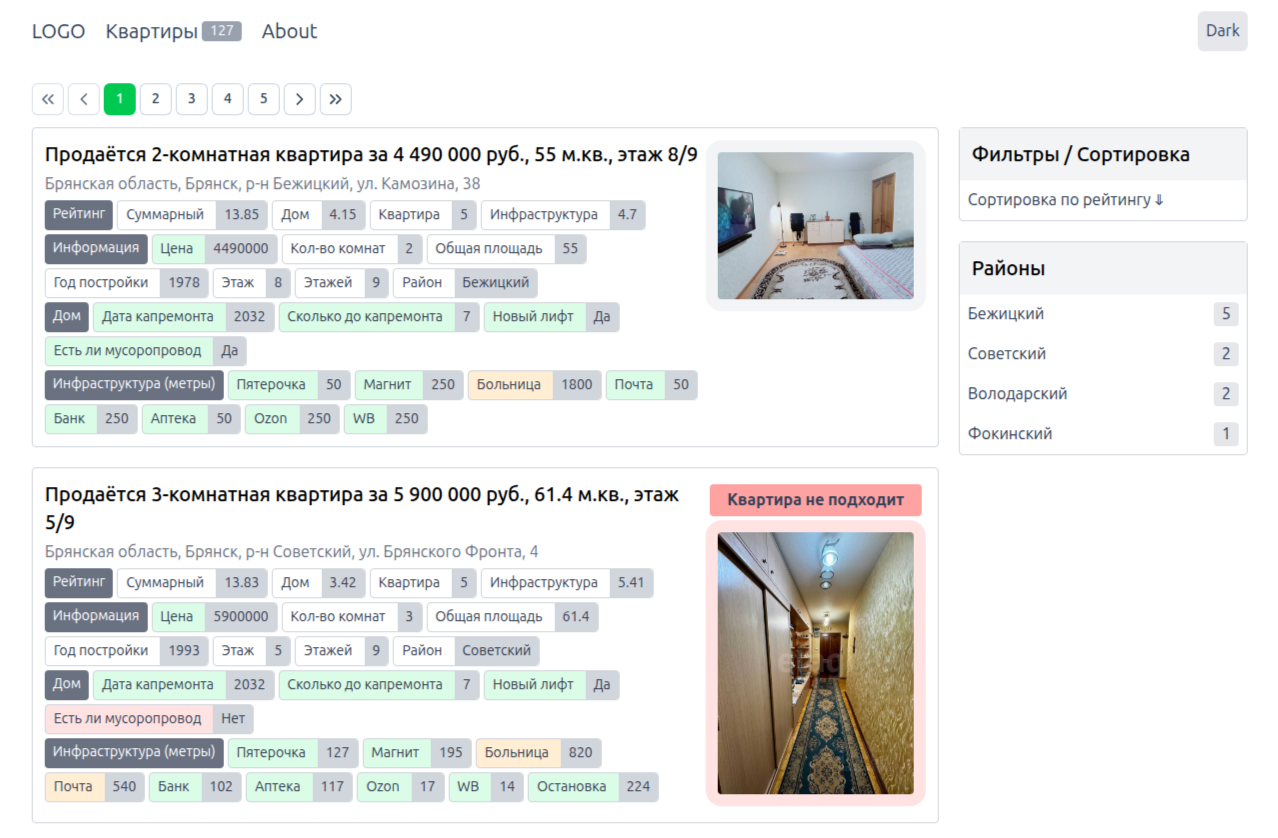
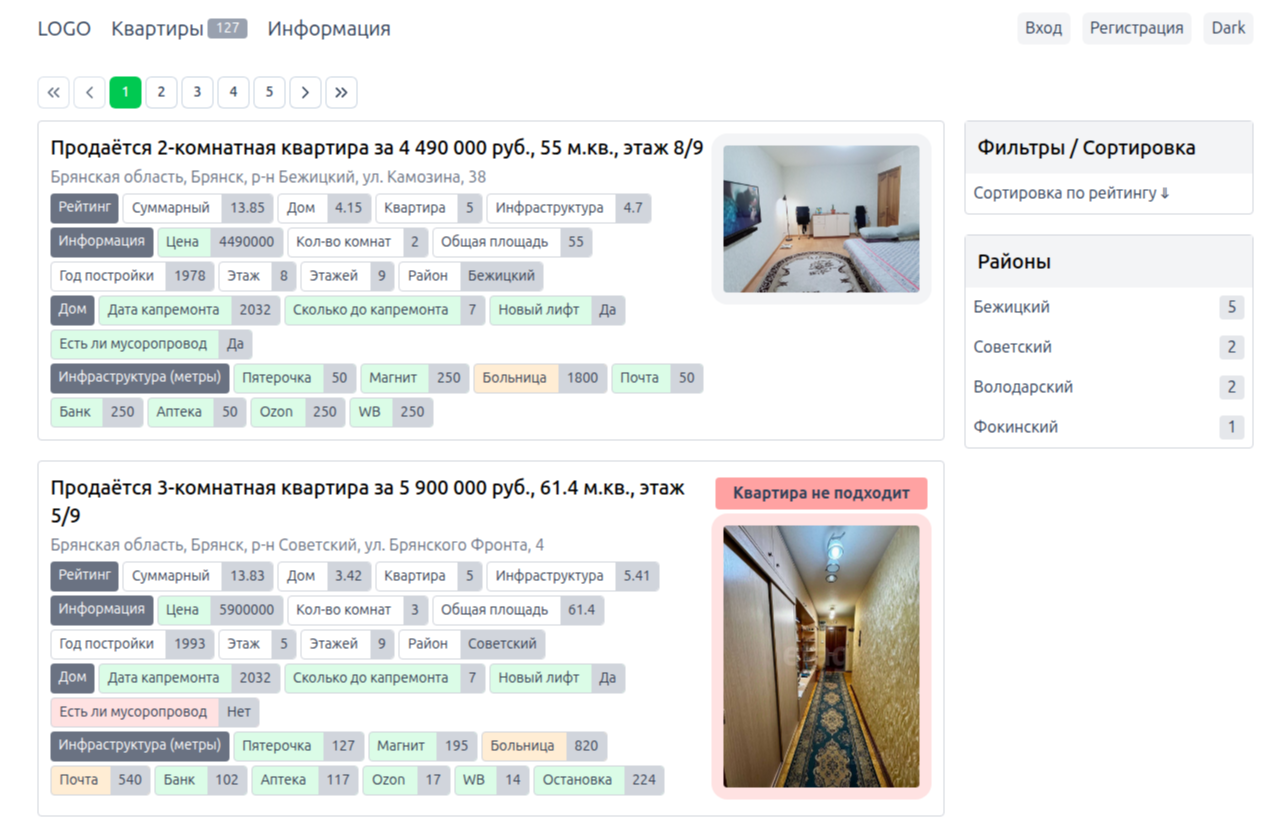
refactoring

diff --git a/frontend/app/pages/login.vue b/frontend/app/pages/login.vue
@@ -1,0 +1,32 @@
+<script setup>
+definePageMeta({
+    layout: 'empty',
+})
+</script>
+<template>
+    <div class="flex items-center justify-center h-screen">
+        <div class="flex flex-col rounded-sm border border-gray-200 w-1/3">
+            <div class="bg-gray-200 p-3 rounded-t-sm font-normal text-xl">Добро пожаловать</div>
+            <div class="p-5 space-y-5">
+
+                <label for="first_name" class="block mb-2.5 text-sm font-medium text-heading">Имя пользвателя</label>
+                <input type="text" id="first_name"
+                    class="bg-neutral-secondary-medium border border-default-medium text-heading text-sm rounded-base focus:ring-brand focus:border-brand block w-full px-3 py-2.5 shadow-xs placeholder:text-body"
+                    placeholder="John" required />
+
+                <label for="first_name" class="block mb-2.5 text-sm font-medium text-heading">Пароль</label>
+                <input type="text" id="first_name"
+                    class="bg-neutral-secondary-medium border border-default-medium text-heading text-sm rounded-base focus:ring-brand focus:border-brand block w-full px-3 py-2.5 shadow-xs placeholder:text-body"
+                    placeholder="John" required />
+            </div>
+            <div class="flex p-3 rounded-b-sm border-t border-gray-200 justify-center items-center gap-3">
+                <button class="bg-green-400 rounded-sm px-3 py-2 text-white">Регистрация</button>
+                <button class="bg-green-400 rounded-sm px-3 py-2 text-white">Вход</button>
+            </div>
+            <div class="flex p-3 rounded-b-sm border-t border-gray-200 justify-center items-center gap-3">
+                <NuxtLink class="navbar-brand" to="/">На главную</NuxtLink>
+            </div>
+            
+        </div>
+    </div>
+</template>

diff --git a/frontend/app/components/HeaderBlocks/MainMenu.vue b/frontend/app/components/HeaderBlocks/MainMenu.vue
@@ -1,7 +1,8 @@
 <script setup>
+
 const { globalCounter1 } = useGlobalData()
 
-const urls = {
+const urls_left = {
     main: {
         url: "/",
         label: "LOGO",
@@ -13,8 +14,20 @@ const urls = {
         icon: "i-lucide-book-open",
     },
     about: {
-        url: "/about",
-        label: "About",
+        url: "/info",
+        label: "Информация",
+        icon: "lucide:info",
+    },
+}
+const urls_right = {
+    login: {
+        url: "/login",
+        label: "Вход",
+        icon: "lucide:info",
+    },
+    registration: {
+        url: "/registration",
+        label: "Регистрация",
         icon: "lucide:info",
     },
 }
@@ -23,7 +36,7 @@ const urls = {
 <template>
     <div class="flex justify-between sticky top-0 z-50 bg-white py-5">
         <div class="flex space-x-5 justify-start">
-            <div class="flex items-center space-x-1 font-normal text-xl" v-for="url in urls">
+            <div class="flex items-center space-x-1 font-normal text-xl" v-for="url in urls_left">
                 <template v-if="url['url'] == '/flats'">
                     <NuxtLink class="navbar-brand flex items-center space-x-1" :to="url['url']">
                         <div>{{ url['label'] }}</div>
@@ -35,8 +48,10 @@ const urls = {
                 </template>
             </div>
         </div>
-        <div>
-            <HeaderBlocksDarkModeBtn />
+        <div class="flex items-center space-x-3 font-normal">
+            <HeaderBlocksLogin :url="urls_right['login']" />
+            <HeaderBlocksRegistration :url="urls_right['registration']"/>
+            <HeaderBlocksDarkModeBtn/>
         </div>
     </div>
 </template>

diff --git a/frontend/app/components/HeaderBlocks/DarkModeBtn.vue b/frontend/app/components/HeaderBlocks/DarkModeBtn.vue
@@ -1,4 +1,5 @@
 <script setup>
+
 const colorMode = useColorMode()
 
 const isDark = computed(() => colorMode.value === 'dark')
@@ -9,7 +10,7 @@ function toggleDarkMode() {
 </script>
 
 <template>
-  <button @click="toggleDarkMode" class="p-2 bg-gray-200 dark:bg-gray-700 rounded-md flex items-center">
+  <button @click="toggleDarkMode" class="px-2 py-1 bg-gray-100 dark:bg-gray-700 rounded-md flex items-center">
     <span v-if="!isDark">Dark</span>
     <span v-else>Light</span>
   </button>

diff --git a/frontend/app/components/HeaderBlocks/Registration.vue b/frontend/app/components/HeaderBlocks/Registration.vue
@@ -1,0 +1,10 @@
+<script setup>
+const props = defineProps(['url'])
+</script>
+
+<template>
+    <div class="px-2 py-1 bg-gray-100 dark:bg-gray-700 rounded-md flex items-center">
+        <NuxtLink class="navbar-brand" :to="url['url']">Регистрация</NuxtLink>
+    </div>
+    
+</template>

diff --git a/frontend/app/components/HeaderBlocks/Login.vue b/frontend/app/components/HeaderBlocks/Login.vue
@@ -1,0 +1,9 @@
+<script setup>
+const props = defineProps(['url'])
+</script>
+
+<template>
+    <div class="px-2 py-1 bg-gray-100 dark:bg-gray-700 rounded-md flex items-center">
+        <NuxtLink class="navbar-brand" :to="url['url']">Вход</NuxtLink>
+    </div>
+</template>

diff --git a/frontend/app/layouts/empty.vue b/frontend/app/layouts/empty.vue
@@ -1,0 +1,5 @@
+<template>
+  <UContainer class="max-w-7xl mx-auto px-4">
+    <slot />
+  </UContainer>
+</template>

diff --git a/frontend/app/pages/registration.vue b/frontend/app/pages/registration.vue
@@ -1,0 +1,1 @@
+<template>registration page</template>
